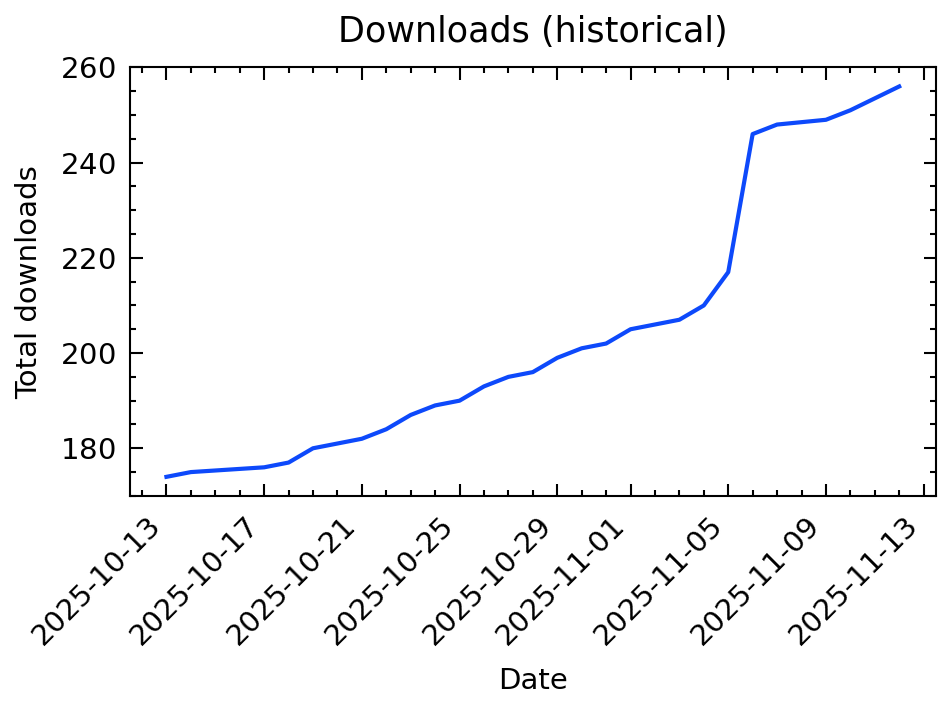
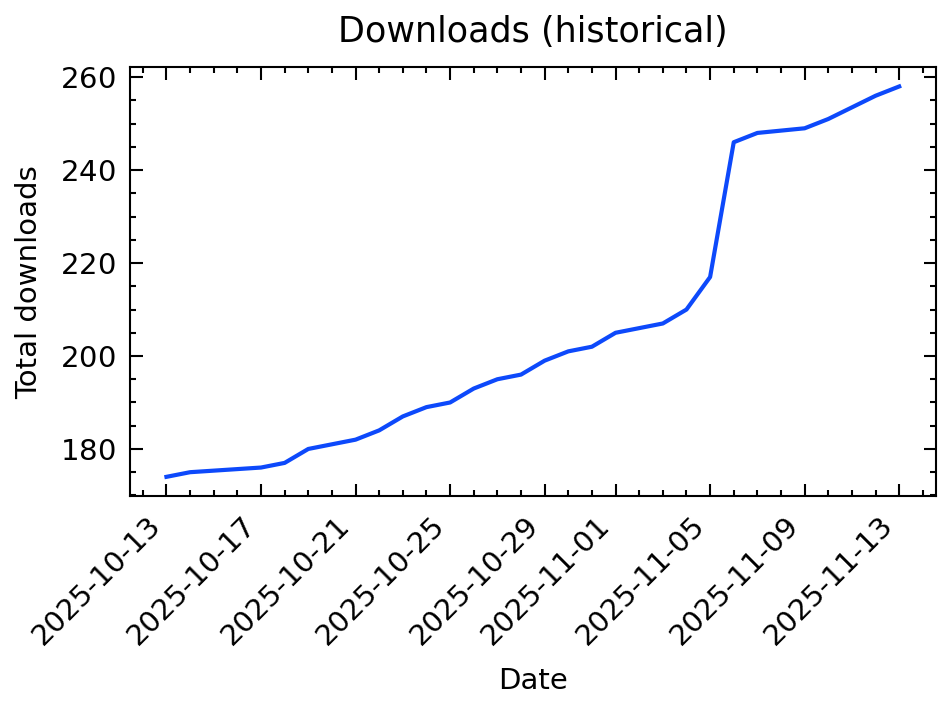
Updated Metrics data

diff --git a/README.md b/README.md
@@ -4,7 +4,7 @@
 SciWIn-Client helps users creating **Computational Workflows** in CWL. Detailed Information about SciWIn-Client can be found in the [GitHub Repository](https://github.com/fairagro/m4.4_sciwin_client). The Metrics shown below have been calculated using the GitHub API. Presentation is done via a CWL Workflow and the scripts in this repository.
 
 ## Downloads by Version
-SciWIn-Client currently has about 256 overall downloads across all versions and operating systems. The lastest version v1.0.0 currently has 57 downloads.
+SciWIn-Client currently has about 258 overall downloads across all versions and operating systems. The lastest version v1.0.0 currently has 59 downloads.
 
 
 ![downloads by version](release.png)
@@ -12,7 +12,7 @@ SciWIn-Client currently has about 256 overall downloads across all versions and 
 
 | Version | Downloads |
 |---------|-----------|
-| v1.0.0 | 57|
+| v1.0.0 | 59|
 | v0.8.0 | 34|
 | v0.7.0 | 21|
 | v0.6.1 | 16|
@@ -27,7 +27,7 @@ SciWIn-Client currently has about 256 overall downloads across all versions and 
 
 
 ## Downloads by Operating System
-SciWIn-Client is used on all major operating systems. There are 146 downloads of the Linux executable, 46 downloads of the Windows executable and 64 downloads of the Mac OS executable.
+SciWIn-Client is used on all major operating systems. There are 147 downloads of the Linux executable, 47 downloads of the Windows executable and 64 downloads of the Mac OS executable.
 
 
 ![downloads by platform](platform.png)
@@ -38,12 +38,12 @@ SciWIn-Client is used on all major operating systems. There are 146 downloads of
 | MacOS (ARM) | 37|
 | Linux (ARM) | 31|
 | MacOS (x64) | 27|
-| Windows (x64) | 46|
-| Linux (x64) | 115|
+| Windows (x64) | 47|
+| Linux (x64) | 116|
 
 
 ## Historical Download Chart
-The historical download chart can be viewed below. It is shown how the 256 overall downloads progressed over time by using the commited data of this repository.
+The historical download chart can be viewed below. It is shown how the 258 overall downloads progressed over time by using the commited data of this repository.
 
 
 ![downloads by date](history.png)
